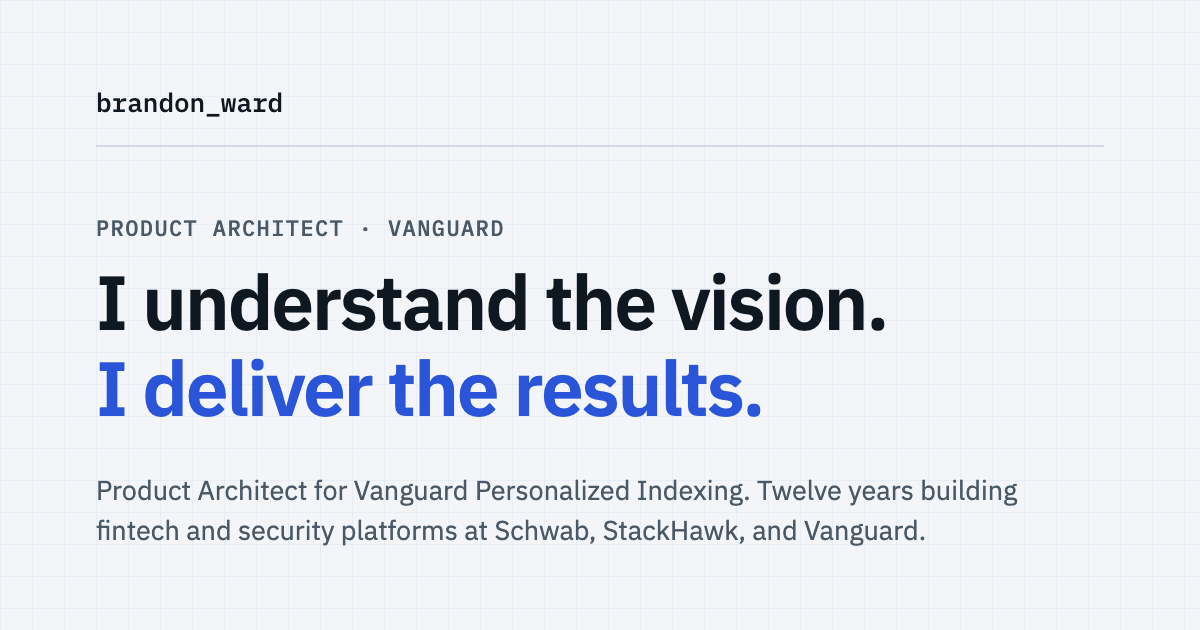
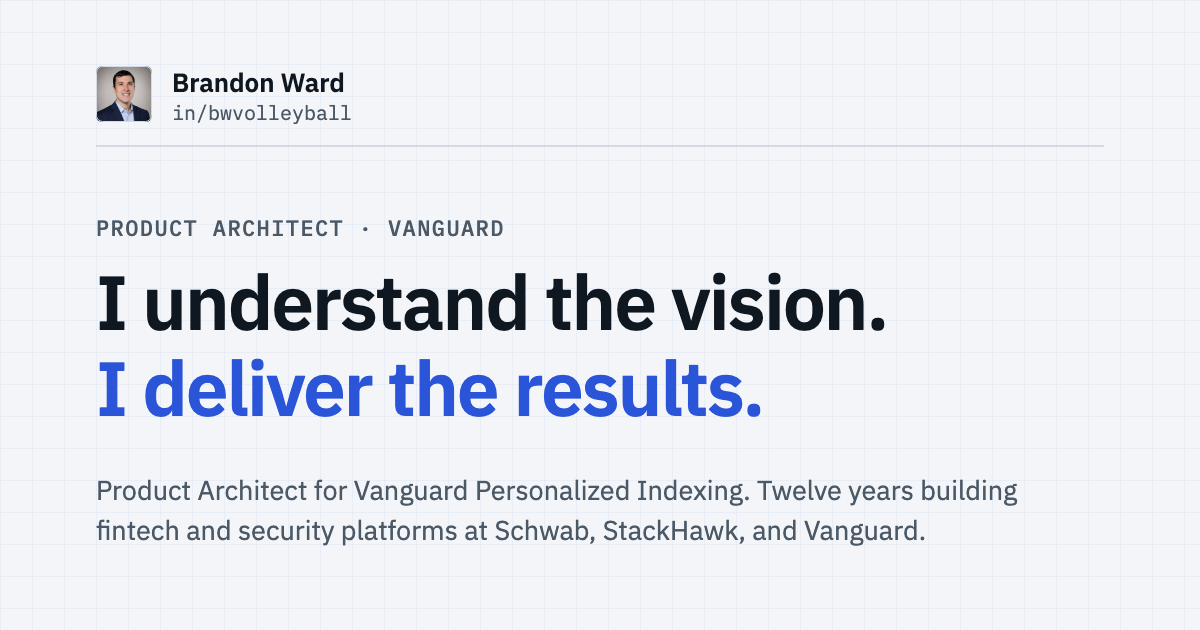
Replace the brandon_ward wordmark with a photo badge, name, and handle
The nav home link is now the LinkedIn profile photo (self-hosted, served as
WebP at 1x/2x/3x), "Brandon Ward", and "in/bwvolleyball" in mono underneath.
The OG image gets the same header.

Claude-Session: https://claude.ai/code/session_012T4JuppS49Z3kcNYzPzEEF

Changed region(s): [[0.0617, 0.0905, 0.3083, 0.2111]]

diff --git a/src/styles/brand.css b/src/styles/brand.css
@@ -255,3 +255,10 @@ html { background: var(--surface); }
 .bw-tl-stack { margin-top: var(--space-2); font-size: 14px; color: var(--ink-muted); }
 .bw-tl-links { display: flex; flex-wrap: wrap; gap: var(--space-1) var(--space-4); margin-top: var(--space-2); font-size: 14px; }
 .bw-tl-links a { color: var(--accent); text-decoration: underline; text-underline-offset: 3px; text-decoration-thickness: 1px; overflow-wrap: anywhere; }
+
+/* NavBar identity: photo badge, name, and the LinkedIn handle underneath (replaces the brandon_ward wordmark). */
+.bw-nav-mark { display: inline-flex; align-items: center; gap: var(--space-3); min-height: var(--tap-target); font-family: var(--font-sans); }
+.bw-nav-avatar { display: block; width: 36px; height: 36px; flex: none; border-radius: var(--radius-md); box-shadow: 0 0 0 1px var(--line); object-fit: cover; }
+.bw-nav-id { display: flex; flex-direction: column; line-height: 1.2; }
+.bw-nav-name { font-size: 15px; font-weight: 600; color: var(--ink); }
+.bw-nav-handle { font-family: var(--font-mono); font-size: 12px; font-weight: 400; color: var(--ink-muted); }
